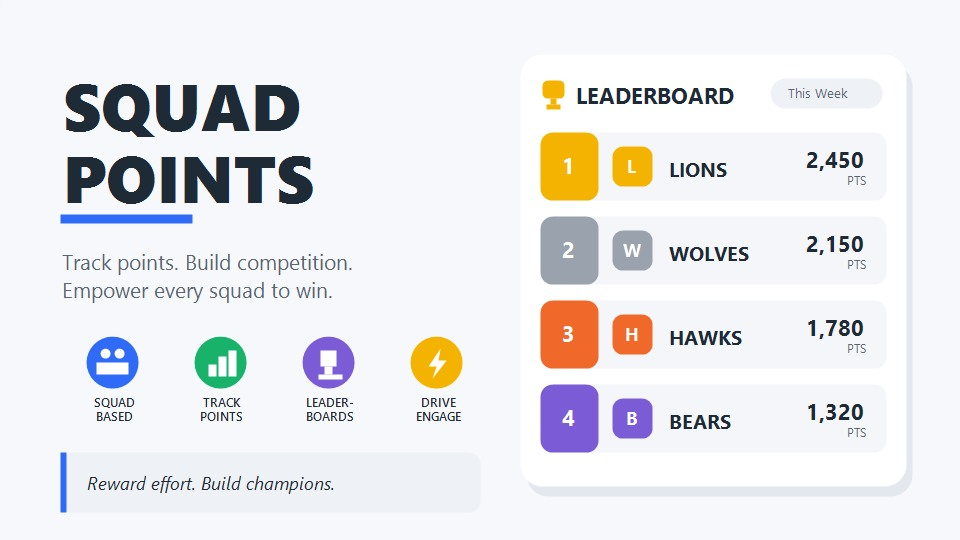
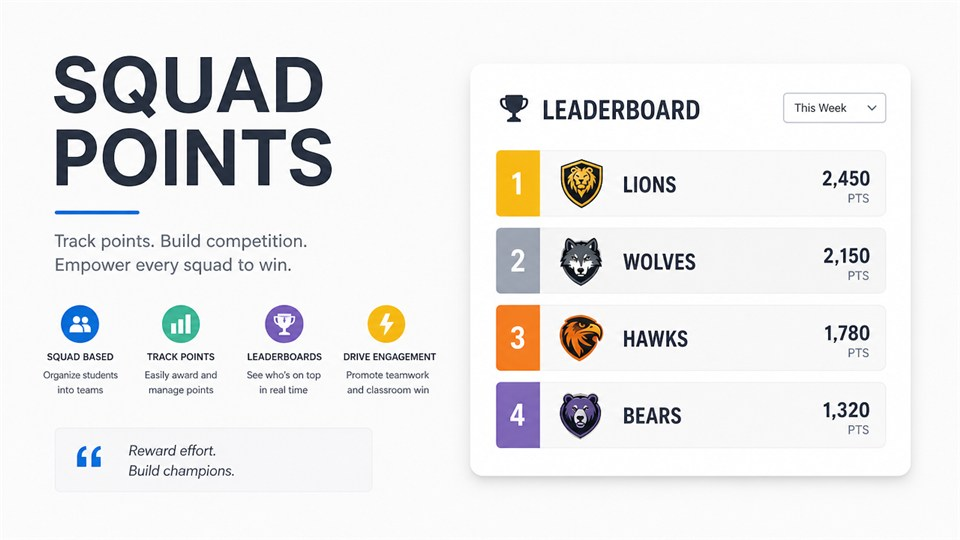
Squad Points: wire in Derek's cover + generated illustrations
Homepage card now uses Derek's own Squad Points cover design (replaces the
recreation). New art: welcome-screen illustration, QR-scan art in the Share
dialog, podium illustration on empty student-view standings, and a link-preview
(og:image) card so shares in Canvas/Google Classroom show the classroom scene.

diff --git a/squads.html b/squads.html
@@ -5,6 +5,11 @@
 <meta name="viewport" content="width=device-width, initial-scale=1.0">
 <title>Squad Points — Free Team Points Tracker for Teachers</title>
 <meta name="description" content="Free classroom team points tracker. Organize students into squads, award points in three taps, run live leaderboards with daily, weekly, and all-time records — no accounts, all data stays on your device.">
+<meta property="og:title" content="Squad Points — Free Team Points Tracker for Teachers">
+<meta property="og:description" content="Organize students into squads, award points in three taps, and run leaderboards with daily, weekly, and all-time records. Free, no accounts.">
+<meta property="og:image" content="https://tobinscience.com/squad-points-og.jpg">
+<meta property="og:url" content="https://tobinscience.com/squads.html">
+<meta property="og:type" content="website">
 <link rel="icon" type="image/png" href="/favicon.png">
 <style>
   :root{ --ink:#182135; --mut:#5f6b83; --bg:#f2f4fb; --card:#fff; --brand:#5b5bd6; --brand2:#4640c9;
@@ -88,9 +93,10 @@
   .sq.add{border:2px dashed #c2c9e6;background:rgba(255,255,255,.5);box-shadow:none;display:flex;align-items:center;
           justify-content:center;color:var(--brand2);font-weight:700;min-height:196px}
   .sq.add:hover{background:#fff;transform:none}
-  .empty{max-width:520px;margin:3rem auto;text-align:center;background:var(--card);border-radius:20px;
-         padding:2.4rem 2rem;border:1px solid var(--line);box-shadow:var(--shadow)}
-  .empty h2{margin-top:0}
+  .empty{max-width:560px;margin:2.2rem auto;text-align:center;background:var(--card);border-radius:20px;
+         padding:1.6rem 2rem 2.2rem;border:1px solid var(--line);box-shadow:var(--shadow)}
+  .empty h2{margin-top:.4rem}
+  .empty .hero{width:100%;max-width:400px;height:auto;border-radius:14px}
 
   /* floating toolbar */
   .toolbar{position:fixed;left:50%;transform:translateX(-50%);bottom:14px;background:rgba(255,255,255,.94);
@@ -1019,7 +1025,8 @@ const IMGDB = {
   async function renderDashboard() {
     const main = $("#main"); main.innerHTML = "";
     if (!st.periods.length) {
-      main.appendChild(el("div", "empty", `<h2>Welcome to Squad Points</h2>
+      main.appendChild(el("div", "empty", `<img class="hero" src="squad-welcome.jpg" alt="Students celebrating around a leaderboard podium">
+        <h2>Welcome to Squad Points</h2>
         <p class="muted">Set up your first class period and paste in your roster to get started. Everything stays on this device — no accounts, no sign-in.</p>
         <button class="btn" id="startBtn">Add your first class period</button>`));
       $("#startBtn").onclick = addPeriodFlow;
@@ -1420,7 +1427,10 @@ const IMGDB = {
   // ================= SHARE =================
   async function openShare() {
     const o = modal(`<h2>${ic("share", 20)} Share standings with students</h2>
-      <p class="muted">This makes a link (and QR code) students open on their own devices. It's a snapshot of right now — re-share whenever you want them to see fresh numbers.</p>
+      <div class="row" style="align-items:flex-start;flex-wrap:nowrap">
+        <p class="muted" style="flex:1;margin:0">This makes a link (and QR code) students open on their own devices. It's a snapshot of right now — re-share whenever you want them to see fresh numbers.</p>
+        <img src="squad-scan.jpg" alt="" style="width:92px;height:92px;border-radius:12px;flex:none">
+      </div>
       <div id="shBody"><p class="muted">Building link…</p></div>`);
     const body = $("#shBody");
     try {

diff --git a/squads-view.html b/squads-view.html
@@ -5,6 +5,10 @@
 <meta name="viewport" content="width=device-width, initial-scale=1.0">
 <title>Squad Points — Standings</title>
 <meta name="description" content="Live squad standings for your class — daily, weekly, and all-time records.">
+<meta property="og:title" content="Squad Points — Class Standings">
+<meta property="og:description" content="See your class's squad standings — daily, weekly, and all-time records.">
+<meta property="og:image" content="https://tobinscience.com/squad-points-og.jpg">
+<meta property="og:type" content="website">
 <link rel="icon" type="image/png" href="/favicon.png">
 <style>
   :root{ --ink:#182135; --mut:#5f6b83; --bg:#f2f4fb; --card:#fff; --brand:#5b5bd6; --brand2:#4640c9;
@@ -73,6 +77,7 @@
   h3{margin:1.3rem 0 .6rem;letter-spacing:-.2px}
   .err{max-width:460px;margin:3rem auto;text-align:center;background:var(--card);border-radius:20px;
        padding:2.2rem 1.8rem;border:1px solid var(--line);box-shadow:var(--shadow)}
+  .artempty{display:block;width:min(260px,64%);margin:1.1rem auto .5rem;border-radius:14px}
   footer{padding:1rem;text-align:center}
   footer a{color:var(--brand2);font-size:.85rem;text-decoration:none;background:#fff;border:1px solid var(--line);
            border-radius:999px;padding:.38rem .95rem .38rem .5rem;display:inline-flex;align-items:center;gap:.5rem;box-shadow:var(--shadow)}
@@ -214,7 +219,7 @@ function renderChamp(body){
   html += `<h3>${ic("medal",18)} All-Time Records (highest quarter totals ever)</h3>`;
   html += (c.top10&&c.top10.length) ? `<table class="lb"><tr><th></th><th>Squad</th><th>When</th><th style="text-align:right">Pts</th></tr>` +
     c.top10.map((r,i)=>`<tr><td>${rk(i+1)}</td><td>${esc(r.n)}</td><td class="muted">${esc(r.p)} · ${esc(r.q)}</td><td class="r">${r.t}</td></tr>`).join("") + `</table>`
-    : `<p class="muted">No records yet.</p>`;
+    : `<img class="artempty" src="squad-podium.jpg" alt="Empty podium waiting for a winner"><p class="muted" style="text-align:center">No records yet.</p>`;
   body.innerHTML = html;
 }
 function renderWeek(body){
@@ -222,7 +227,7 @@ function renderWeek(body){
   let html = `<h3>${ic("flame",18)} This Week's Race (all classes)</h3><p class="muted" style="margin-top:-.3rem">Anyone can win a week!</p>`;
   html += w.length ? `<table class="lb"><tr><th></th><th>Squad</th><th>Class</th><th style="text-align:right">Pts</th></tr>` +
     w.map((r,i)=>`<tr><td>${rk(i+1)}</td><td>${esc(r.n)}</td><td class="muted">${esc(r.p)}</td><td class="r">${r.w}</td></tr>`).join("") + `</table>`
-    : `<p class="muted">No points yet this week.</p>`;
+    : `<img class="artempty" src="squad-podium.jpg" alt="Empty podium waiting for a winner"><p class="muted" style="text-align:center">No points yet this week — the race starts with the first award.</p>`;
   body.innerHTML = html;
 }
 addEventListener("hashchange", boot);